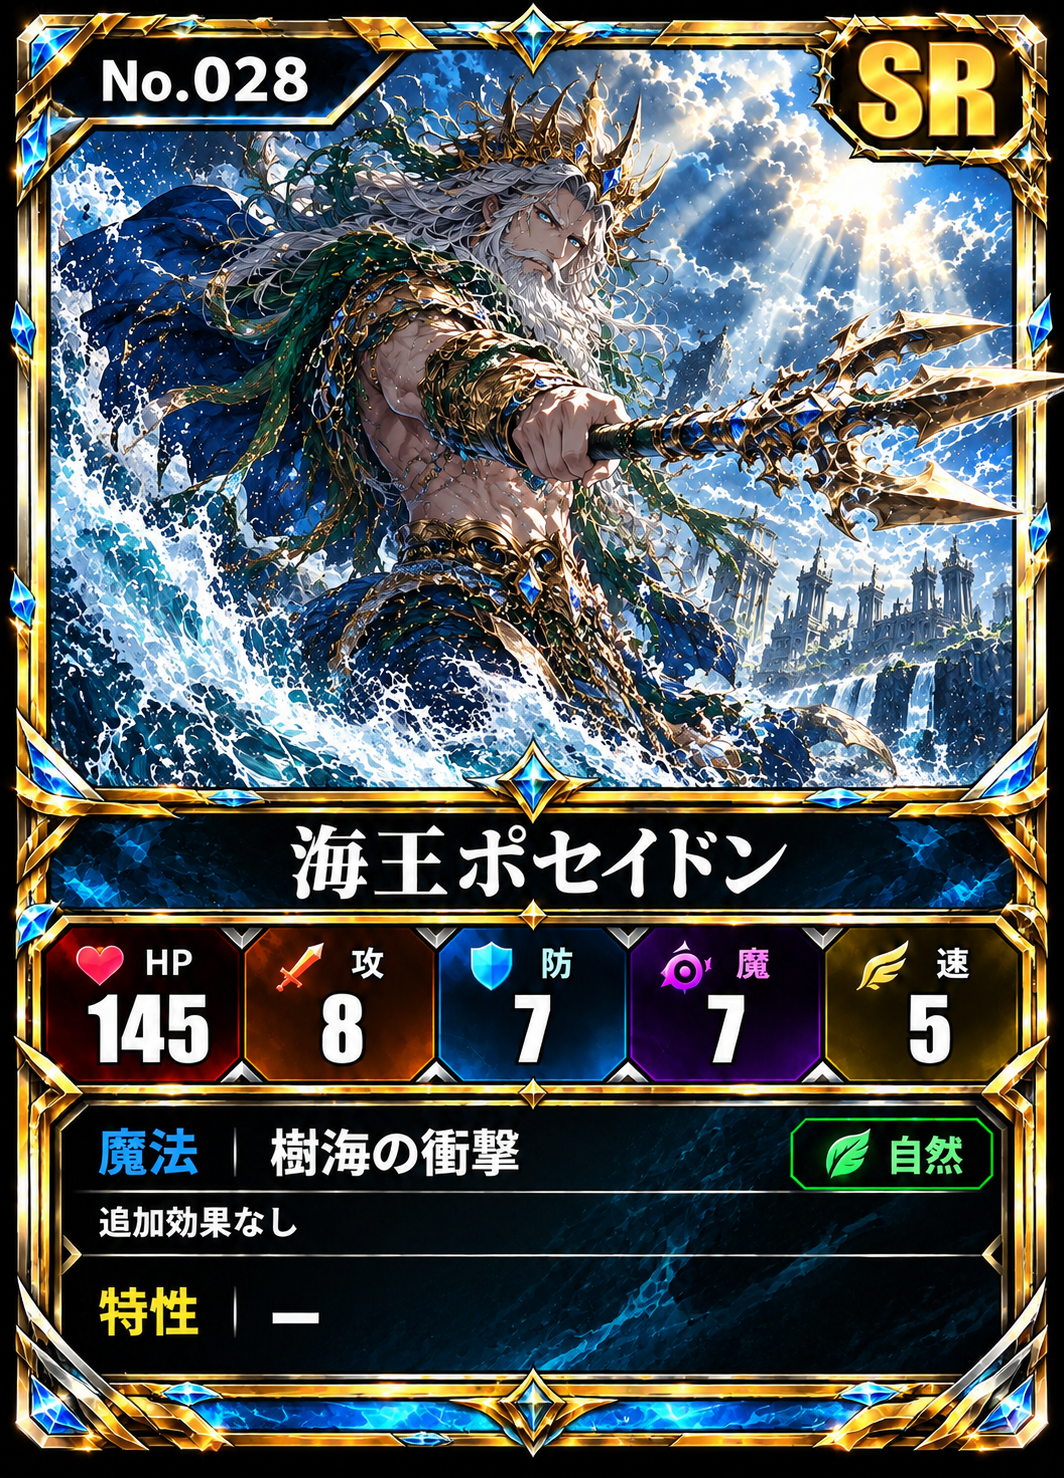
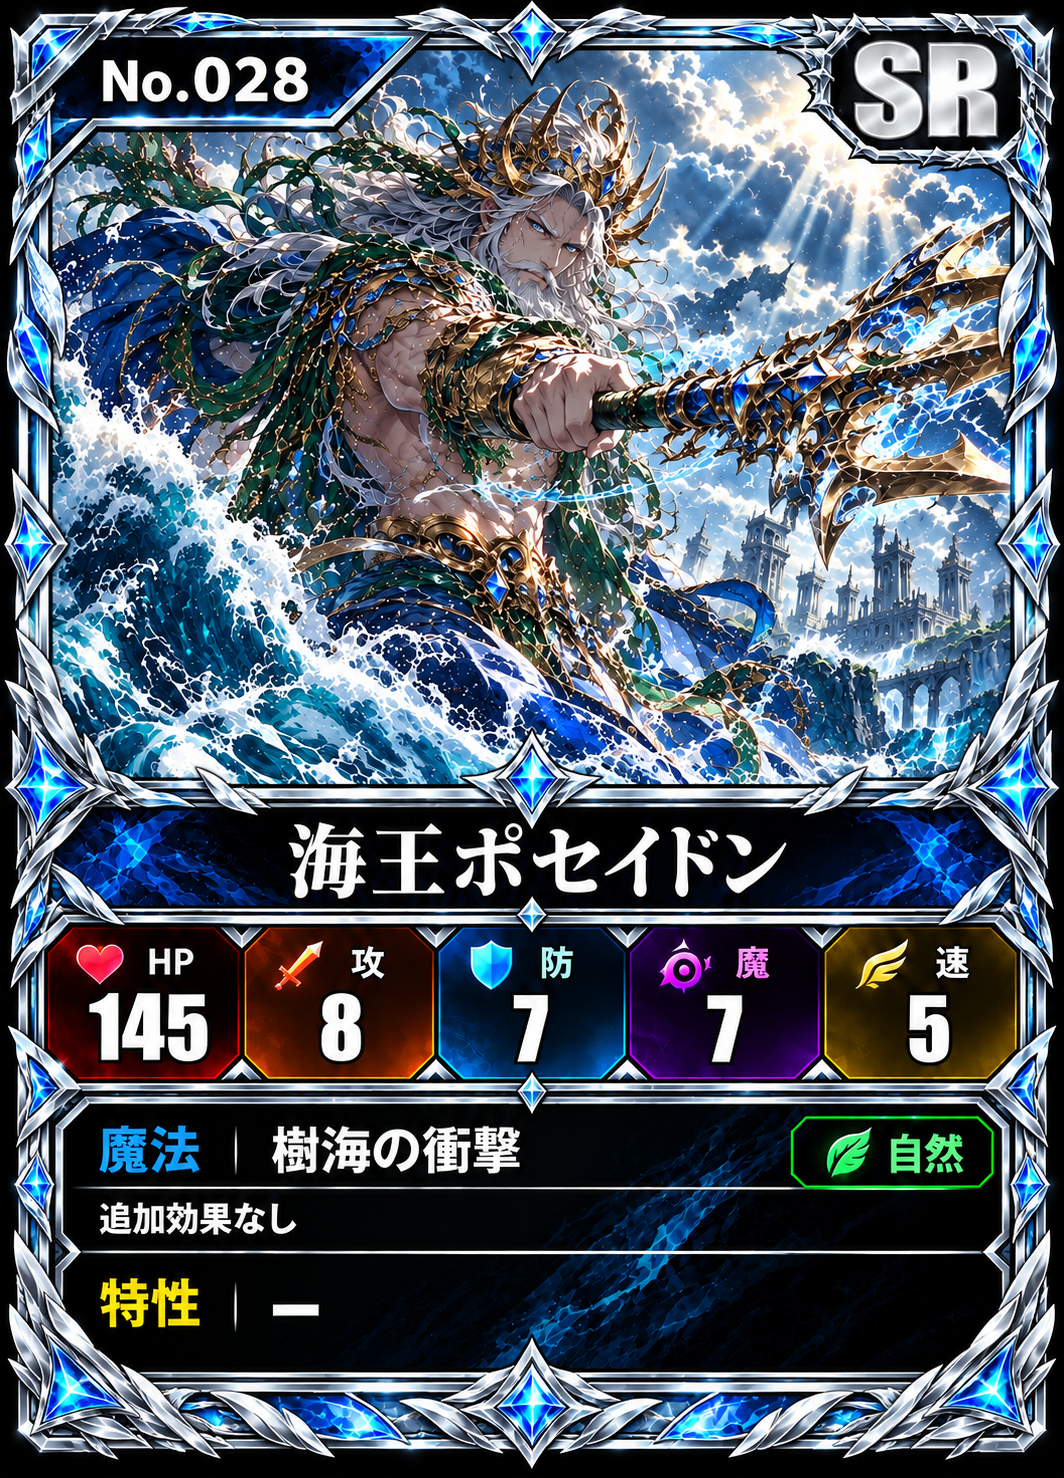
MYTHCLASH: No.028 海王ポセイドン を銀のわくの絵に差しかえ(前の絵は unused/)
Claude-Session: https://claude.ai/code/session_01MXithgTc5umkveoyZShZHQ

diff --git a/docs/MYTHCLASH.md b/docs/MYTHCLASH.md
@@ -187,7 +187,7 @@
 - 絵がかぶらないように、カードごとに「写す広さ・カメラの高さ・動き・光の方向・主な色」の2〜3個を変えた構図の文を Claude が作る（企画者 2026-10-28）。
   - No.008 菓子牢の魔女：表どおり（(50%) も描いてあった）。
 - 届いたカード：No.001〜029・101。
-- 2026-10-29：これから描くSRのカードは、わくを銀色にする（企画者）。前に届いたSR（No.001・014・016・021・028）は金のわくのまま
+- 2026-10-29：これから描くSRのカードは、わくを銀色にする（企画者）。前に届いたSR（No.001・014・016・021）は金のわくのまま。No.028 は銀のわくの絵に差しかえた
 
 ### 名前を BLOOD TOWER に（2026-10-27）【確定】
 - 企画者「ストーリーじゃなくて BLOOD TOWER にしよう」→ モードえらびのボタンを「🏰 BLOOD TOWER」に。
